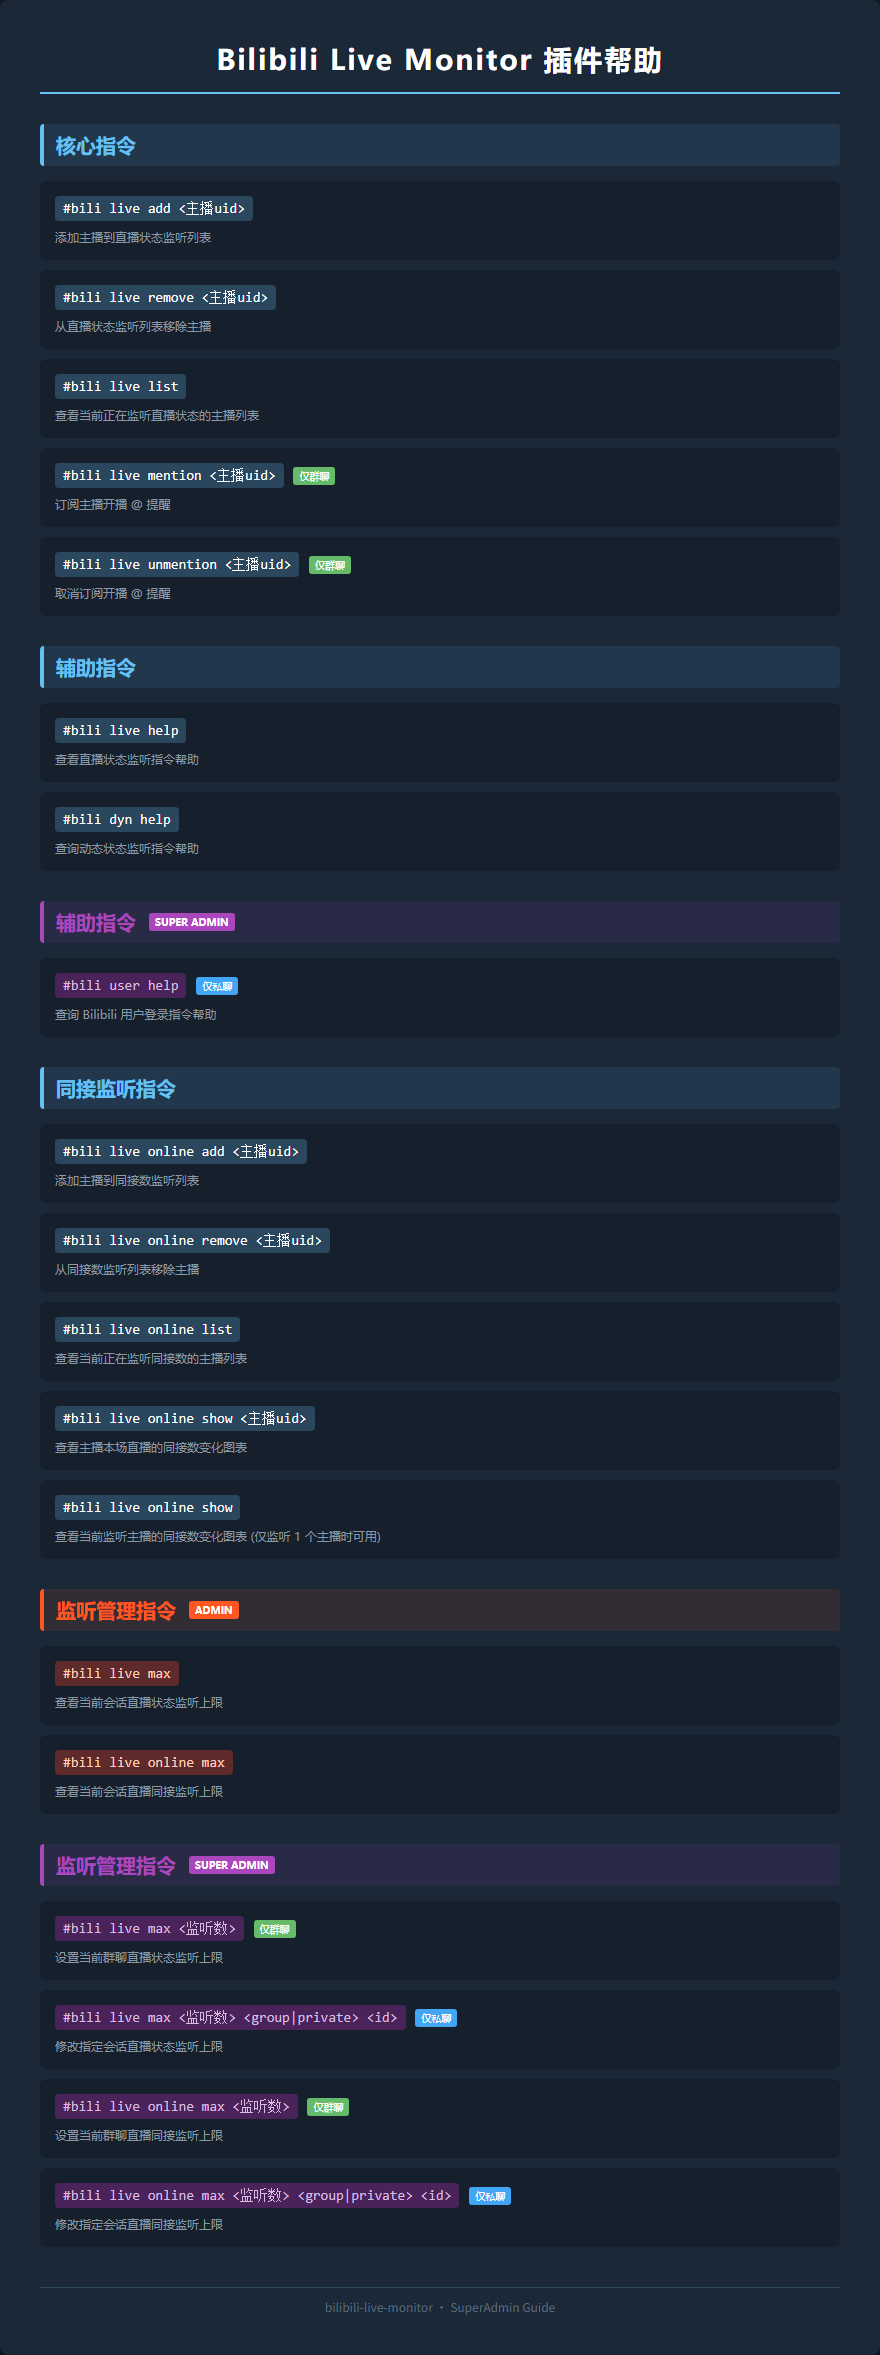
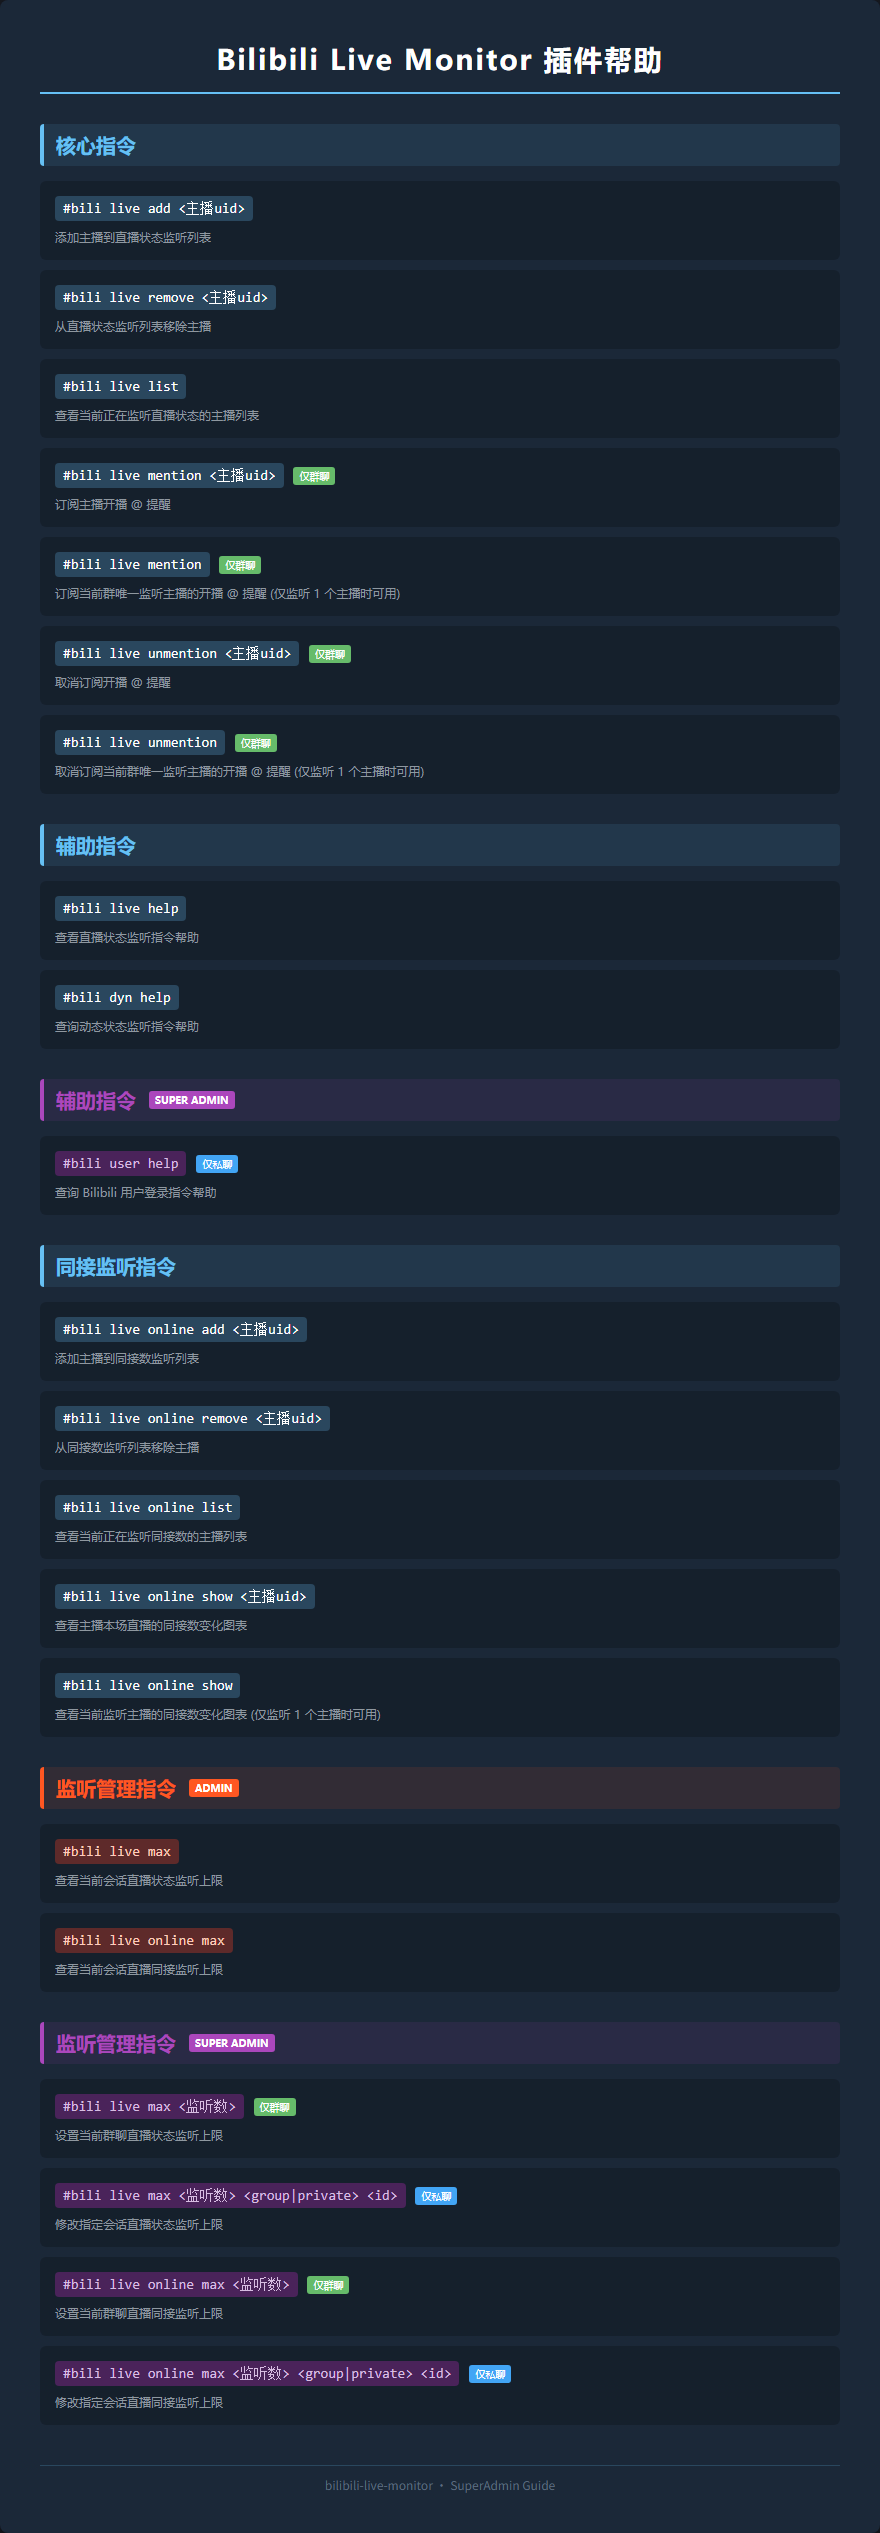
feat(live): mention/unmention 支持无参快捷形式
当前群直播监听仅 1 个时, #bili live mention / unmention 可省略主播uid; 零监听或多监听回复提示与列表, 判定抽为纯函数并补单测

diff --git a/src/handlers/live/helpText.generated.ts b/src/handlers/live/helpText.generated.ts
@@ -7,7 +7,7 @@ import type { HelpVariant } from '../../utils/helpMessage';
 
 /** 按帮助版本的文本帮助 (图片降级用), Admin 版同时用于私聊用户与群聊超管 */
 export const HELP_TEXT_MAP: Record<HelpVariant, string> = {
-    user: "【Bilibili Live Monitor 插件帮助】\n\n核心指令:\n#bili live add <主播uid>: 添加主播到直播状态监听列表\n#bili live remove <主播uid>: 从直播状态监听列表移除主播\n#bili live list: 查看当前正在监听直播状态的主播列表\n#bili live mention <主播uid>: 订阅主播开播 @ 提醒 [仅群聊]\n#bili live unmention <主播uid>: 取消订阅开播 @ 提醒 [仅群聊]\n\n辅助指令:\n#bili live help: 查看直播状态监听指令帮助\n#bili dyn help: 查询动态状态监听指令帮助\n\n同接监听指令:\n#bili live online add <主播uid>: 添加主播到同接数监听列表\n#bili live online remove <主播uid>: 从同接数监听列表移除主播\n#bili live online list: 查看当前正在监听同接数的主播列表\n#bili live online show <主播uid>: 查看主播本场直播的同接数变化图表\n#bili live online show: 查看当前监听主播的同接数变化图表 (仅监听 1 个主播时可用)\n",
-    admin: "【Bilibili Live Monitor 插件帮助】\n\n核心指令:\n#bili live add <主播uid>: 添加主播到直播状态监听列表\n#bili live remove <主播uid>: 从直播状态监听列表移除主播\n#bili live list: 查看当前正在监听直播状态的主播列表\n#bili live mention <主播uid>: 订阅主播开播 @ 提醒 [仅群聊]\n#bili live unmention <主播uid>: 取消订阅开播 @ 提醒 [仅群聊]\n\n辅助指令:\n#bili live help: 查看直播状态监听指令帮助\n#bili dyn help: 查询动态状态监听指令帮助\n\n同接监听指令:\n#bili live online add <主播uid>: 添加主播到同接数监听列表\n#bili live online remove <主播uid>: 从同接数监听列表移除主播\n#bili live online list: 查看当前正在监听同接数的主播列表\n#bili live online show <主播uid>: 查看主播本场直播的同接数变化图表\n#bili live online show: 查看当前监听主播的同接数变化图表 (仅监听 1 个主播时可用)\n\n监听管理指令 [管理员]:\n#bili live max: 查看当前会话直播状态监听上限\n#bili live online max: 查看当前会话直播同接监听上限\n",
-    superAdmin: "【Bilibili Live Monitor 插件帮助】\n\n核心指令:\n#bili live add <主播uid>: 添加主播到直播状态监听列表\n#bili live remove <主播uid>: 从直播状态监听列表移除主播\n#bili live list: 查看当前正在监听直播状态的主播列表\n#bili live mention <主播uid>: 订阅主播开播 @ 提醒 [仅群聊]\n#bili live unmention <主播uid>: 取消订阅开播 @ 提醒 [仅群聊]\n\n辅助指令:\n#bili live help: 查看直播状态监听指令帮助\n#bili dyn help: 查询动态状态监听指令帮助\n\n辅助指令 [超管]:\n#bili user help: 查询 Bilibili 用户登录指令帮助 [仅私聊]\n\n同接监听指令:\n#bili live online add <主播uid>: 添加主播到同接数监听列表\n#bili live online remove <主播uid>: 从同接数监听列表移除主播\n#bili live online list: 查看当前正在监听同接数的主播列表\n#bili live online show <主播uid>: 查看主播本场直播的同接数变化图表\n#bili live online show: 查看当前监听主播的同接数变化图表 (仅监听 1 个主播时可用)\n\n监听管理指令 [管理员]:\n#bili live max: 查看当前会话直播状态监听上限\n#bili live online max: 查看当前会话直播同接监听上限\n\n监听管理指令 [超管]:\n#bili live max <监听数>: 设置当前群聊直播状态监听上限 [仅群聊]\n#bili live max <监听数> <group|private> <id>: 修改指定会话直播状态监听上限 [仅私聊]\n#bili live online max <监听数>: 设置当前群聊直播同接监听上限 [仅群聊]\n#bili live online max <监听数> <group|private> <id>: 修改指定会话直播同接监听上限 [仅私聊]\n",
+    user: "【Bilibili Live Monitor 插件帮助】\n\n核心指令:\n#bili live add <主播uid>: 添加主播到直播状态监听列表\n#bili live remove <主播uid>: 从直播状态监听列表移除主播\n#bili live list: 查看当前正在监听直播状态的主播列表\n#bili live mention <主播uid>: 订阅主播开播 @ 提醒 [仅群聊]\n#bili live mention: 订阅当前群唯一监听主播的开播 @ 提醒 (仅监听 1 个主播时可用) [仅群聊]\n#bili live unmention <主播uid>: 取消订阅开播 @ 提醒 [仅群聊]\n#bili live unmention: 取消订阅当前群唯一监听主播的开播 @ 提醒 (仅监听 1 个主播时可用) [仅群聊]\n\n辅助指令:\n#bili live help: 查看直播状态监听指令帮助\n#bili dyn help: 查询动态状态监听指令帮助\n\n同接监听指令:\n#bili live online add <主播uid>: 添加主播到同接数监听列表\n#bili live online remove <主播uid>: 从同接数监听列表移除主播\n#bili live online list: 查看当前正在监听同接数的主播列表\n#bili live online show <主播uid>: 查看主播本场直播的同接数变化图表\n#bili live online show: 查看当前监听主播的同接数变化图表 (仅监听 1 个主播时可用)\n",
+    admin: "【Bilibili Live Monitor 插件帮助】\n\n核心指令:\n#bili live add <主播uid>: 添加主播到直播状态监听列表\n#bili live remove <主播uid>: 从直播状态监听列表移除主播\n#bili live list: 查看当前正在监听直播状态的主播列表\n#bili live mention <主播uid>: 订阅主播开播 @ 提醒 [仅群聊]\n#bili live mention: 订阅当前群唯一监听主播的开播 @ 提醒 (仅监听 1 个主播时可用) [仅群聊]\n#bili live unmention <主播uid>: 取消订阅开播 @ 提醒 [仅群聊]\n#bili live unmention: 取消订阅当前群唯一监听主播的开播 @ 提醒 (仅监听 1 个主播时可用) [仅群聊]\n\n辅助指令:\n#bili live help: 查看直播状态监听指令帮助\n#bili dyn help: 查询动态状态监听指令帮助\n\n同接监听指令:\n#bili live online add <主播uid>: 添加主播到同接数监听列表\n#bili live online remove <主播uid>: 从同接数监听列表移除主播\n#bili live online list: 查看当前正在监听同接数的主播列表\n#bili live online show <主播uid>: 查看主播本场直播的同接数变化图表\n#bili live online show: 查看当前监听主播的同接数变化图表 (仅监听 1 个主播时可用)\n\n监听管理指令 [管理员]:\n#bili live max: 查看当前会话直播状态监听上限\n#bili live online max: 查看当前会话直播同接监听上限\n",
+    superAdmin: "【Bilibili Live Monitor 插件帮助】\n\n核心指令:\n#bili live add <主播uid>: 添加主播到直播状态监听列表\n#bili live remove <主播uid>: 从直播状态监听列表移除主播\n#bili live list: 查看当前正在监听直播状态的主播列表\n#bili live mention <主播uid>: 订阅主播开播 @ 提醒 [仅群聊]\n#bili live mention: 订阅当前群唯一监听主播的开播 @ 提醒 (仅监听 1 个主播时可用) [仅群聊]\n#bili live unmention <主播uid>: 取消订阅开播 @ 提醒 [仅群聊]\n#bili live unmention: 取消订阅当前群唯一监听主播的开播 @ 提醒 (仅监听 1 个主播时可用) [仅群聊]\n\n辅助指令:\n#bili live help: 查看直播状态监听指令帮助\n#bili dyn help: 查询动态状态监听指令帮助\n\n辅助指令 [超管]:\n#bili user help: 查询 Bilibili 用户登录指令帮助 [仅私聊]\n\n同接监听指令:\n#bili live online add <主播uid>: 添加主播到同接数监听列表\n#bili live online remove <主播uid>: 从同接数监听列表移除主播\n#bili live online list: 查看当前正在监听同接数的主播列表\n#bili live online show <主播uid>: 查看主播本场直播的同接数变化图表\n#bili live online show: 查看当前监听主播的同接数变化图表 (仅监听 1 个主播时可用)\n\n监听管理指令 [管理员]:\n#bili live max: 查看当前会话直播状态监听上限\n#bili live online max: 查看当前会话直播同接监听上限\n\n监听管理指令 [超管]:\n#bili live max <监听数>: 设置当前群聊直播状态监听上限 [仅群聊]\n#bili live max <监听数> <group|private> <id>: 修改指定会话直播状态监听上限 [仅私聊]\n#bili live online max <监听数>: 设置当前群聊直播同接监听上限 [仅群聊]\n#bili live online max <监听数> <group|private> <id>: 修改指定会话直播同接监听上限 [仅私聊]\n",
 };

diff --git a/test/handlers/live/utils.test.ts b/test/handlers/live/utils.test.ts
@@ -1,0 +1,57 @@
+/**
+ * 无参快捷指令目标解析
+ *
+ * `#bili live mention` / `#bili live unmention` 省略 uid 时,
+ * 依据当前会话直播监听数量决定作用对象, 三分支:
+ * - 零监听: 返回添加指引, 不作用
+ * - 唯一监听: 返回该主播 uid
+ * - 多监听: 返回带编号的监听列表, 不作用
+ */
+
+import { describe, expect, it } from 'vitest';
+import { resolveSoleLiveMonitor } from '../../../src/handlers/live/utils';
+import type { BiliLiveMonitor } from '../../../src/store/biliLiveMonitor.store';
+
+const monitor = (uid: string, uname: string): BiliLiveMonitor => ({
+    uid,
+    uname,
+    to: [{ id: '100', type: 'group' }],
+});
+
+describe('resolveSoleLiveMonitor', () => {
+    it('零监听返回添加指引', () => {
+        const result = resolveSoleLiveMonitor([]);
+        expect(result).toEqual({
+            message:
+                '当前未监听任何主播, 请先使用 #bili live add <主播uid> 添加',
+        });
+    });
+
+    it('唯一监听直接返回该主播 uid', () => {
+        const result = resolveSoleLiveMonitor([monitor('111', '甲')]);
+        expect(result).toEqual({ uid: '111' });
+    });
+
+    it('多监听返回带编号的监听列表', () => {
+        const result = resolveSoleLiveMonitor([
+            monitor('111', '甲'),
+            monitor('222', '乙'),
+        ]);
+        expect(result).toEqual({
+            message:
+                '当前会话监听了 2 个主播, 请指定:\n' +
+                '1. 甲 (uid: 111)\n' +
+                '2. 乙 (uid: 222)',
+        });
+    });
+
+    it('主播名缺失时回退为“主播”', () => {
+        const result = resolveSoleLiveMonitor([
+            monitor('111', ''),
+            monitor('222', '乙'),
+        ]);
+        expect('message' in result && result.message).toContain(
+            '1. 主播 (uid: 111)',
+        );
+    });
+});

diff --git a/src/handlers/live/unmention.handler.ts b/src/handlers/live/unmention.handler.ts
@@ -1,37 +1,39 @@
 import { NapCatPluginContext } from 'napcat-types/napcat-onebot/network/plugin/types';
 import { OB11Message } from 'napcat-types/napcat-onebot';
 import { biliLiveStoreService } from '../../services/live/store.service';
-import { sendReply } from '../utils';
+import { sendReplyByToInfo } from '../utils';
+import { resolveSoleLiveMonitor, toInfoFromEvent } from './utils';
 
 /**
  * 取消开播 @ 提醒订阅（仅群聊）
+ *
+ * 带参: `#bili live unmention <主播uid>` 取消指定主播的订阅
+ * 无参: `#bili live unmention` 快捷形式, 当前群直播监听仅 1 个时直接取消
  */
 export const unmentionLiveHandler = async (
     ctx: NapCatPluginContext,
     event: OB11Message,
     commands: string[],
 ) => {
-    // 获取参数, 主播 uid
-    const [uid] = commands;
+    const toInfo = toInfoFromEvent(event);
+    const [uidArg] = commands;
+
+    // 解析目标主播: 无参时要求当前群仅 1 个直播监听对象
+    let uid = uidArg;
     if (!uid) {
-        ctx.logger.debug('未检测到主播UID');
-        return;
+        const resolved = resolveSoleLiveMonitor(
+            biliLiveStoreService.list(toInfo),
+        );
+        if ('message' in resolved) {
+            await sendReplyByToInfo(ctx, toInfo, resolved.message);
+            return;
+        }
+        uid = resolved.uid;
     }
 
-    // 仅支持群聊
-    const { message_type, group_id, user_id } = event;
-    if (message_type !== 'group' || !group_id) {
-        await sendReply(ctx, event, '该指令仅支持群聊使用');
-        return;
-    }
-
-    const toInfo = {
-        id: String(group_id),
-        type: 'group',
-    } as const;
     await biliLiveStoreService.removeMention(
         uid,
         toInfo,
-        String(user_id),
+        String(event.user_id),
     );
 };

diff --git a/src/handlers/live/mention.handler.ts b/src/handlers/live/mention.handler.ts
@@ -1,37 +1,39 @@
 import { NapCatPluginContext } from 'napcat-types/napcat-onebot/network/plugin/types';
 import { OB11Message } from 'napcat-types/napcat-onebot';
 import { biliLiveStoreService } from '../../services/live/store.service';
-import { sendReply } from '../utils';
+import { sendReplyByToInfo } from '../utils';
+import { resolveSoleLiveMonitor, toInfoFromEvent } from './utils';
 
 /**
  * 订阅开播 @ 提醒（仅群聊）
+ *
+ * 带参: `#bili live mention <主播uid>` 订阅指定主播
+ * 无参: `#bili live mention` 快捷形式, 当前群直播监听仅 1 个时直接订阅
  */
 export const mentionLiveHandler = async (
     ctx: NapCatPluginContext,
     event: OB11Message,
     commands: string[],
 ) => {
-    // 获取参数, 主播 uid
-    const [uid] = commands;
+    const toInfo = toInfoFromEvent(event);
+    const [uidArg] = commands;
+
+    // 解析目标主播: 无参时要求当前群仅 1 个直播监听对象
+    let uid = uidArg;
     if (!uid) {
-        ctx.logger.debug('未检测到主播UID');
-        return;
+        const resolved = resolveSoleLiveMonitor(
+            biliLiveStoreService.list(toInfo),
+        );
+        if ('message' in resolved) {
+            await sendReplyByToInfo(ctx, toInfo, resolved.message);
+            return;
+        }
+        uid = resolved.uid;
     }
 
-    // 仅支持群聊
-    const { message_type, group_id, user_id } = event;
-    if (message_type !== 'group' || !group_id) {
-        await sendReply(ctx, event, '该指令仅支持群聊使用');
-        return;
-    }
-
-    const toInfo = {
-        id: String(group_id),
-        type: 'group',
-    } as const;
     await biliLiveStoreService.addMention(
         uid,
         toInfo,
-        String(user_id),
+        String(event.user_id),
     );
 };

diff --git a/src/handlers/live/utils.ts b/src/handlers/live/utils.ts
@@ -1,5 +1,8 @@
 import { OB11Message } from 'napcat-types/napcat-onebot';
-import type { BiliLiveMonitorToInfo } from '../../store/biliLiveMonitor.store';
+import type {
+    BiliLiveMonitor,
+    BiliLiveMonitorToInfo,
+} from '../../store/biliLiveMonitor.store';
 
 /**
  * 从消息事件构造会话推送目标信息
@@ -16,4 +19,40 @@ export function toInfoFromEvent(
                 : String(user_id),
         type: message_type,
     };
+}
+
+/** 无参快捷指令的解析结果: 命中唯一主播, 或需回给用户的提示文案 */
+export type SoleLiveMonitorResolution =
+    | { uid: string }
+    | { message: string };
+
+/**
+ * 解析无参快捷指令的目标主播
+ *
+ * 无参形态下要求当前会话仅存在 1 个直播监听: 命中则返回该主播 uid;
+ * 零监听或多监听时返回一句话提示 (多监听附带动编号的监听列表),
+ * 由调用方决定发送。判定为纯函数, 不触达存储与发送链路。
+ */
+export function resolveSoleLiveMonitor(
+    monitors: BiliLiveMonitor[],
+): SoleLiveMonitorResolution {
+    if (monitors.length === 0) {
+        return {
+            message:
+                '当前未监听任何主播, 请先使用 #bili live add <主播uid> 添加',
+        };
+    }
+    if (monitors.length > 1) {
+        return {
+            message:
+                `当前会话监听了 ${monitors.length} 个主播, 请指定:\n` +
+                monitors
+                    .map(
+                        (m, i) =>
+                            `${i + 1}. ${m.uname || '主播'} (uid: ${m.uid})`,
+                    )
+                    .join('\n'),
+        };
+    }
+    return { uid: monitors[0].uid };
 }

diff --git a/scripts/generateHelp/cmds/bilibili-live-monitor.ts b/scripts/generateHelp/cmds/bilibili-live-monitor.ts
@@ -25,8 +25,18 @@ export const bilibiliLiveMonitor: Cmd = {
                     onlyGroup: true,
                 },
                 {
+                    cmd: '#bili live mention',
+                    desc: '订阅当前群唯一监听主播的开播 @ 提醒 (仅监听 1 个主播时可用)',
+                    onlyGroup: true,
+                },
+                {
                     cmd: '#bili live unmention <主播uid>',
                     desc: '取消订阅开播 @ 提醒',
+                    onlyGroup: true,
+                },
+                {
+                    cmd: '#bili live unmention',
+                    desc: '取消订阅当前群唯一监听主播的开播 @ 提醒 (仅监听 1 个主播时可用)',
                     onlyGroup: true,
                 },
             ],
